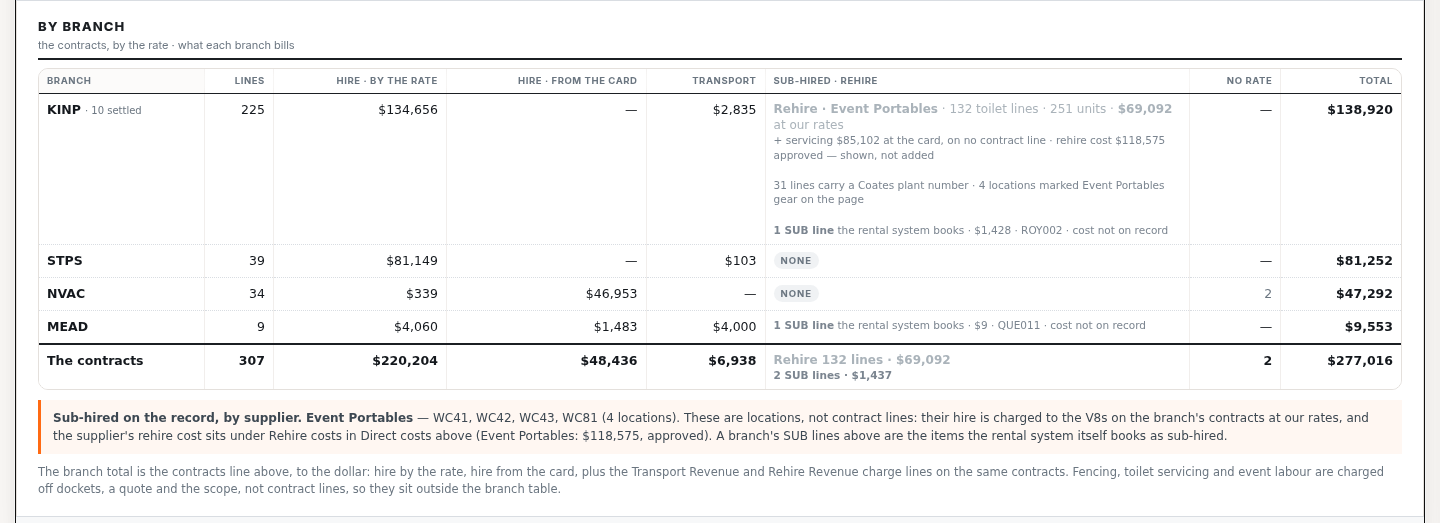
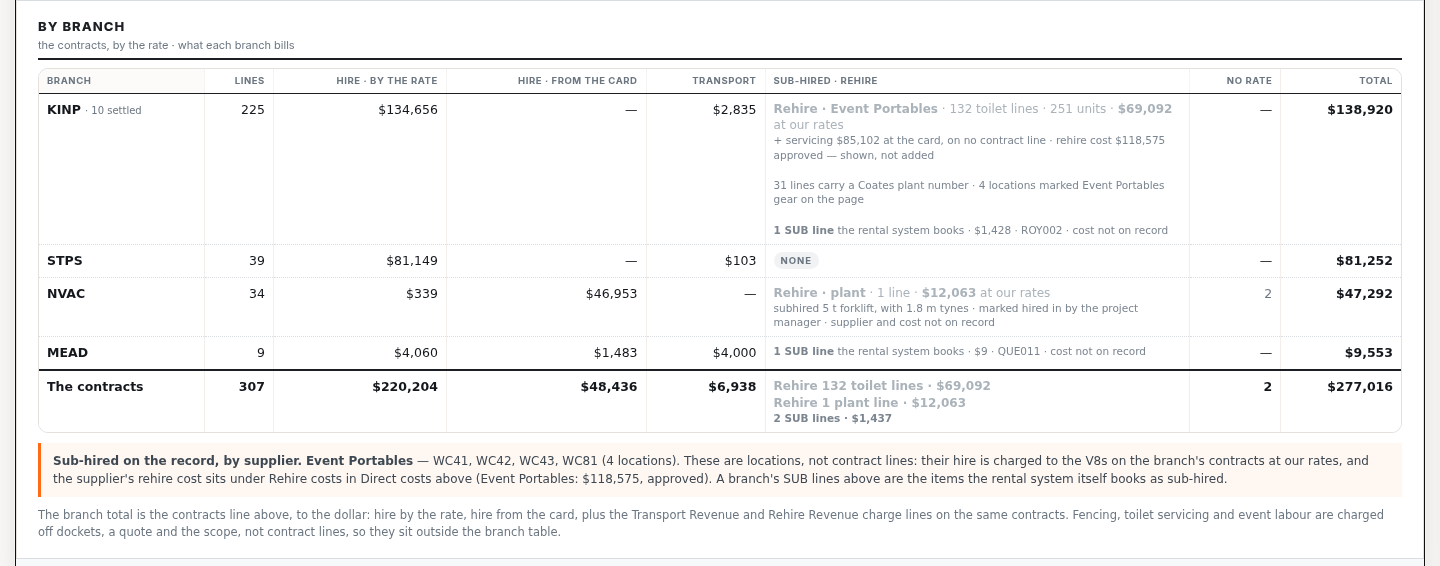
v7.54 ready to upload again: the plant a person marks as hired in counts as rehire on its branch — NVAC's 5 t forklift with tynes ($12,063 at our rates), beside the Event Portables toilets on KINP. Sweeps 21 tabs, 0 errors. Not live
Claude-Session: https://claude.ai/code/session_01BQwk5iUoysfHRmoPUtnkBd

diff --git a/03_GC500_Delivery_Control/v7.54_every_branch_shows_its_rehire_DRAFT/evidence/practice_tests.js b/03_GC500_Delivery_Control/v7.54_every_branch_shows_its_rehire_DRAFT/evidence/practice_tests.js
@@ -7,7 +7,8 @@ const figures = p => p.evaluate(() => { const M = moneySummary(); const B = pl75
  const rows = [...document.querySelectorAll('#pl752 .pl-tbl tbody tr')].map(tr => ({branch: (tr.querySelector('td:first-child b') || tr.querySelector('td:first-child') || {}).textContent, sub: ((tr.querySelector('.pl-sub') || {}).innerText || '').replace(/\s+/g, ' ').trim(), total: ((tr.querySelector('td:last-child') || {}).innerText || '').trim()}));
  const toilets = ONHIRE_ROWS.filter(r => r.family === 'toilet');
  return {contracts: M.charge.contracts, branchTotal: Math.round(B.reduce((s, b) => s + b.total, 0) * 100) / 100, revenue: M.charge.total, costs: M.cost.known,
- branches: B.map(b => ({code: b.code, lines: b.lines, total: b.total, subLines: b.subLines, rehire: b.rehire, suppliers: b.suppliers, rehireLines: b.rehireLines, rehireUnits: b.rehireUnits, rehireCharge: b.rehireCharge, rehireCoatesNos: b.rehireCoatesNos, rehireUnrated: b.rehireUnrated})),
+ branches: B.map(b => ({code: b.code, lines: b.lines, total: b.total, subLines: b.subLines, rehire: b.rehire, suppliers: b.suppliers, rehireLines: b.rehireLines, rehireUnits: b.rehireUnits, rehireCharge: b.rehireCharge, rehireCoatesNos: b.rehireCoatesNos, rehireUnrated: b.rehireUnrated, plantLines: b.plantLines, plantCharge: b.plantCharge, plantWhat: b.plantWhat})),
+ plantCheck: ONHIRE_ROWS.filter(r => r.subhired_machine && !r.subhired).map(r => ({branch: r.branch_code, what: r.what, amount: (contractCharge(r) || {}).amount})),
  RH, check: {toiletLines: toilets.length, toiletUnits: toilets.reduce((s, r) => s + (Number(r.quantity) || 0), 0), toiletCharge: Math.round(toilets.reduce((s, r) => { const c = contractCharge(r); return s + (typeof c.amount === 'number' ? c.amount : 0); }, 0) * 100) / 100, servicing: M.charge.servicing, rehireCost: M.cost.rehire, streamToilets: (M.streams.find(x => x.key === 'toilets') || {}).charge},
  rows, everyRowHasCell: rows.every(r => r.sub.length > 0), head: ((document.querySelector('#pl752 .pl-tbl thead') || {}).innerText || '').replace(/\s+/g, ' ')}; });
 (async () => {
@@ -25,5 +26,6 @@ const figures = p => p.evaluate(() => { const M = moneySummary(); const B = pl75
  await p.screenshot({path: path.join(out, 'shot754_by_branch_phone.png')}); R.phoneErrors = s.errors; await s.browser.close();
  fs.writeFileSync(path.join(out, 'practice_results.json'), JSON.stringify(R, null, 1));
  const d = R.desktop; const K = d.branches.find(b => b.code === 'KINP') || {};
- console.log(JSON.stringify({contracts: d.contracts, branchTotal: d.branchTotal, branchEqualsContracts: Math.abs(d.branchTotal - d.contracts) < 0.01, revenue: d.revenue, costs: d.costs, kinp: K, kinpMatchesToilets: K.rehireLines === d.check.toiletLines && K.rehireUnits === d.check.toiletUnits && Math.abs(K.rehireCharge - d.check.toiletCharge) < 0.01, check: d.check, RH: d.RH, rows: d.rows, everyRowHasCell: d.everyRowHasCell, head: d.head, errors: R.errors, phoneErrors: R.phoneErrors, phoneOverflow: R.phoneOverflow}, null, 1));
+ const N = d.branches.find(b => b.code === 'NVAC') || {};
+ console.log(JSON.stringify({contracts: d.contracts, branchTotal: d.branchTotal, branchEqualsContracts: Math.abs(d.branchTotal - d.contracts) < 0.01, revenue: d.revenue, costs: d.costs, kinp: K, nvacPlant: {plantLines: N.plantLines, plantCharge: N.plantCharge, plantWhat: N.plantWhat}, plantCheck: d.plantCheck, kinpMatchesToilets: K.rehireLines === d.check.toiletLines && K.rehireUnits === d.check.toiletUnits && Math.abs(K.rehireCharge - d.check.toiletCharge) < 0.01, check: d.check, RH: d.RH, rows: d.rows, everyRowHasCell: d.everyRowHasCell, head: d.head, errors: R.errors, phoneErrors: R.phoneErrors, phoneOverflow: R.phoneOverflow}, null, 1));
 })();

diff --git a/03_GC500_Delivery_Control/v7.54_every_branch_shows_its_rehire_DRAFT/patch_v754.py b/03_GC500_Delivery_Control/v7.54_every_branch_shows_its_rehire_DRAFT/patch_v754.py
@@ -27,9 +27,11 @@ if 'function pl752Rows(' not in t or 'function pl752Card(' not in t: sys.exit('n
 
 # 1. the row builder counts the rehire on each branch's contracts (the page's toilets-stream rule: family toilet)
 t = rep(t, "transport: 0, rehire: 0, subLines: 0, suppliers: []};\n const ch = contractCharge(r); b.lines++;",
- "transport: 0, rehire: 0, subLines: 0, suppliers: [], rehireLines: 0, rehireUnits: 0, rehireCharge: 0, rehireCoatesNos: 0, rehireUnrated: 0};\n const ch = contractCharge(r); b.lines++;\n"
- " /* v7.54 - the rehire on the branch's own contracts: the toilet lines are the Event Portables rehire (the toilets stream's rule), charged at our rates */\n"
- " if (r.family === 'toilet' && !r.subhired) { b.rehireLines++; b.rehireUnits += Number(r.quantity) || 0; if (r.asset_no_is_plant_number) b.rehireCoatesNos++; if (typeof ch.amount === 'number') b.rehireCharge = cents(b.rehireCharge + ch.amount); else b.rehireUnrated++; }",
+ "transport: 0, rehire: 0, subLines: 0, suppliers: [], rehireLines: 0, rehireUnits: 0, rehireCharge: 0, rehireCoatesNos: 0, rehireUnrated: 0, plantLines: 0, plantCharge: 0, plantUnrated: 0, plantWhat: []};\n const ch = contractCharge(r); b.lines++;\n"
+ " /* v7.54 - the rehire on the branch's own contracts: the toilet lines are the Event Portables rehire (the toilets stream's rule), charged at our rates;\n"
+ " and the plant the project manager marked as hired in (subhired_machine: the 5 t forklift with tynes, 12 Sep) - Andrew, 1 Oct: 'some forklifts are subhired' */\n"
+ " if (r.family === 'toilet' && !r.subhired) { b.rehireLines++; b.rehireUnits += Number(r.quantity) || 0; if (r.asset_no_is_plant_number) b.rehireCoatesNos++; if (typeof ch.amount === 'number') b.rehireCharge = cents(b.rehireCharge + ch.amount); else b.rehireUnrated++; }\n"
+ " else if (r.subhired_machine && !r.subhired) { b.plantLines++; if (typeof ch.amount === 'number') b.plantCharge = cents(b.plantCharge + ch.amount); else b.plantUnrated++; const w = (r.subhire && r.subhire.reads_as) || (r.what || r.description || 'plant'); if (!b.plantWhat.includes(w)) b.plantWhat.push(w); }",
  'rows', p, True)
 
 # 2. the column head says what the cell holds
@@ -45,8 +47,8 @@ t = rep(t, OLD_CELL, NEW_CELL, 'cell', p, True)
 
 # 4. the total row's cell
 OLD_TOT = "<td class=\"pl-sub\"><b>${esc(fmtNum(B.reduce((s, b) => s + b.subLines, 0)))} lines</b> · ${esc(money0(B.reduce((s, b) => s + b.rehire, 0)))}</td>"
-NEW_TOT = ("<td class=\"pl-sub\">${(() => { const rl = B.reduce((s, b) => s + b.rehireLines, 0), rc = B.reduce((s, b) => s + b.rehireCharge, 0), sl = B.reduce((s, b) => s + b.subLines, 0), sr = B.reduce((s, b) => s + b.rehire, 0);"
- " return `${rl ? `<b>Rehire ${esc(fmtNum(rl))} line${rl === 1 ? '' : 's'}</b> · ${esc(money0(rc))}<br>` : ''}<span class=\"w\">${esc(fmtNum(sl))} SUB line${sl === 1 ? '' : 's'} · ${esc(money0(sr))}</span>`; })()}</td>")
+NEW_TOT = ("<td class=\"pl-sub\">${(() => { const rl = B.reduce((s, b) => s + b.rehireLines, 0), rc = B.reduce((s, b) => s + b.rehireCharge, 0), pl2 = B.reduce((s, b) => s + b.plantLines, 0), pc = B.reduce((s, b) => s + b.plantCharge, 0), sl = B.reduce((s, b) => s + b.subLines, 0), sr = B.reduce((s, b) => s + b.rehire, 0);"
+ " return `${rl ? `<b>Rehire ${esc(fmtNum(rl))} toilet line${rl === 1 ? '' : 's'}</b> · ${esc(money0(rc))}<br>` : ''}${pl2 ? `<b>Rehire ${esc(fmtNum(pl2))} plant line${pl2 === 1 ? '' : 's'}</b> · ${esc(money0(pc))}<br>` : ''}<span class=\"w\">${esc(fmtNum(sl))} SUB line${sl === 1 ? '' : 's'} · ${esc(money0(sr))}</span>`; })()}</td>")
 t = rep(t, OLD_TOT, NEW_TOT, 'total', p, True)
 
 # 5. the helpers, beside pl752Rows; RH is worked out once per card (the servicing at the card and the approved rehire cost are whole-job figures)
@@ -56,6 +58,7 @@ HELPERS = r"""
 function pl754Title(b){
  const parts = [];
  if (b.rehireLines) parts.push(fmtNum(b.rehireLines) + ' toilet line' + (b.rehireLines === 1 ? '' : 's') + ' (' + fmtNum(b.rehireUnits) + ' units) on this branch’s contracts are the Event Portables rehire: charged to the V8s at our rates, Event Portables paid for them. ' + fmtNum(b.rehireCoatesNos) + ' of the lines carry a Coates plant number; the record does not say which unit is whose.');
+ if (b.plantLines) parts.push(fmtNum(b.plantLines) + ' plant line' + (b.plantLines === 1 ? '' : 's') + ' the project manager marked as hired in (' + b.plantWhat.join('; ') + '): charged to the V8s at our rates; the supplier and the rehire cost are not on the record.');
  if (b.subLines) parts.push(fmtNum(b.subLines) + ' SUB line' + (b.subLines === 1 ? '' : 's') + ' from ' + (b.suppliers.join(', ') || 'a supplier not named') + ' · Rehire Revenue ' + money0(b.rehire) + ' · the rehire cost is not on the record');
  return parts.length ? parts.join(' ') : 'no line on this branch’s contracts is booked as sub-hired, and none is rehire';
 }
@@ -67,6 +70,7 @@ function pl754Cell(b, RH){
  out.push(`<span class="w">${RH && RH.servicing ? `+ servicing ${esc(money0(RH.servicing))} at the card, on no contract line · ` : ''}${RH && RH.cost != null ? `rehire cost ${esc(money0(RH.cost))}${RH.approved ? ' approved' : ' quoted, unsigned'} — shown, not added` : 'rehire cost not on the record'}</span>`);
  out.push(`<span class="w">${esc(fmtNum(b.rehireCoatesNos))} line${b.rehireCoatesNos === 1 ? '' : 's'} carry a Coates plant number · ${esc(fmtNum(marked))} location${marked === 1 ? '' : 's'} marked ${esc(RH && RH.co || 'Event Portables')} gear on the page</span>`);
  }
+ if (b.plantLines) out.push(`<b>Rehire · plant</b> · ${esc(fmtNum(b.plantLines))} line${b.plantLines === 1 ? '' : 's'} · <b>${esc(money0(b.plantCharge))}</b> at our rates${b.plantUnrated ? ` <span class="pl-todo">+ ${esc(fmtNum(b.plantUnrated))} unrated</span>` : ''}<br><span class="w">${esc(b.plantWhat.join('; '))} · marked hired in by the project manager · supplier and cost not on record</span>`);
  if (b.subLines) out.push(`<span class="w"><b>${esc(fmtNum(b.subLines))} SUB line${b.subLines === 1 ? '' : 's'}</b> the rental system books · ${esc(money0(b.rehire))} · ${esc(b.suppliers.join(', ') || 'supplier not named')} · cost not on record</span>`);
  return out.length ? out.join('<br>') : '<span class="pl-none">none</span>';
 }

diff --git a/03_GC500_Delivery_Control/STATUS.md b/03_GC500_Delivery_Control/STATUS.md
@@ -27,7 +27,7 @@ The live page's own proof: `toolchain/fetch_live.sh` then compare with the relea
 
 | version | what | who | since |
 |---|---|---|---|
-| v7.54 | **REVISING — not ready** (Andrew, 1 Oct: "some forklifts are subhired" — the sub-hired plant lines go into the cell too; READY again once retested). With v7.52, in that order (build: patch_v752 then patch_v754 on the live v7.51). Every branch shows its rehire (Andrew, 1 Oct: "KINP you have subhired at 1400 — what about all the Event Portables portaloos?"): the Sub-hired · rehire cell on every branch row — KINP the Event Portables rehire (132 toilet lines, 251 units, $69,092 at our rates; servicing $85,102 at the card; rehire cost $118,575 approved, shown not added; 31 Coates plant numbers; 4 marked locations) and its 1 SUB line ($1,428 ROY002); MEAD its 1 SUB line ($9 QUE011); STPS and NVAC none. Totals unchanged. Sweeps 21 tabs, 0 errors, desktop and phone. `v7.54_every_branch_shows_its_rehire_DRAFT/README.md`. Author: Andrew Fisher. | Claude | 1 Oct 2026 |
+| **v7.54** | **READY TO UPLOAD — with v7.52, in that order** (retested 1 Oct with the sub-hired plant: NVAC's 5 t forklift with tynes, marked hired in by Andrew on 12 Sep, now shows as Rehire · plant · $12,063 at our rates) (build: patch_v752 then patch_v754 on the live v7.51). Every branch shows its rehire (Andrew, 1 Oct: "KINP you have subhired at 1400 — what about all the Event Portables portaloos?"): the Sub-hired · rehire cell on every branch row — KINP the Event Portables rehire (132 toilet lines, 251 units, $69,092 at our rates; servicing $85,102 at the card; rehire cost $118,575 approved, shown not added; 31 Coates plant numbers; 4 marked locations) and its 1 SUB line ($1,428 ROY002); MEAD its 1 SUB line ($9 QUE011); STPS and NVAC none. Totals unchanged. Sweeps 21 tabs, 0 errors, desktop and phone. `v7.54_every_branch_shows_its_rehire_DRAFT/README.md`. Author: Andrew Fisher. | Claude | 1 Oct 2026 |
 | design | **Awaiting Andrew's yes — no page change.** Today · Current Position: one landing page in place of Today and Where we are (Andrew's brief, 1 Oct). Visual design on the live figures, design notes, what-moves-where, one-source-of-truth rules, phone. `design_01Oct2026_today_current_position/`. Not to be built until approved. | Claude | 1 Oct 2026 |
 | v7.53 | **HOLD — DO NOT UPLOAD. Andrew (1 Oct): "dont change anything until i see a preview … they look worse." A live preview is being built for him; the folder stays a draft until he says yes.** (built on the live v7.51, with or without v7.52). The Showcase's 3D backdrop redrawn in Three.js r152 (Andrew, 1 Oct: "10/10. Perfection here"): the circuit at its measured road width with kerbs, concrete blocks and Coates/event hoardings, debris fencing, six gantries (Coates and event words only), floods, grandstands and crowd, Surfers Paradise from OSM; the Coates #26 coupe with livery, lights, wheels and a rival to pass; racing line, braking, launch; follow/onboard/helicopter/overhead/trackside cameras under a director; day, sunset (new backdrop), night; speed lines and smoke; race-control strip. Old engine stays as the fallback; sound unchanged; no record touched. Sweeps 21 tabs, 0 errors, desktop and phone. `v7.53_the_circuit_in_three_js_DRAFT/README.md`. Author: Andrew Fisher. | Claude | 1 Oct 2026 |
 | **v7.52** | **READY TO UPLOAD** (built on the live v7.51). Every branch row shows its sub-hire (Andrew, 1 Oct). The Forecast P&L at the head of Costs: revenue by line (tagged on the contracts / from the card / not priced) and by branch (adds to the contracts line to the cent), direct costs against the eight categories, difference so far, what is not in it; the old card folds under it. Andrew, 1 Oct. `v7.52_the_pl_as_management_read_it_DRAFT/`. Author: Andrew Fisher. | Claude | 1 Oct 2026 |

diff --git a/03_GC500_Delivery_Control/v7.54_every_branch_shows_its_rehire_DRAFT/README.md b/03_GC500_Delivery_Control/v7.54_every_branch_shows_its_rehire_DRAFT/README.md
@@ -23,9 +23,14 @@ The column is now **Sub-hired · rehire**, and every branch row carries it:
   the card (on no contract line); rehire cost $118,575 approved — shown, not added; 31 lines carry a Coates plant
   number · 4 locations marked Event Portables gear on the page (WC41, WC42, WC43, WC81); then its 1 SUB line the
   rental system books · $1,428 · ROY002 · cost not on record.
-- **MEAD** — 1 SUB line the rental system books · $9 · QUE011 · cost not on record.
-- **STPS**, **NVAC** — none.
-- **The contracts** — Rehire 132 lines · $69,092 · 2 SUB lines · $1,437.
+- **NVAC** — Rehire · plant · 1 line · **$12,063** at our rates: the 5 t forklift with 1.8 m tynes Andrew marked as
+  hired in on 12 Sep ("a second forklift was delivered — a subhired forklift with tynes"); supplier and cost not on
+  the record. Andrew, 1 Oct: "some forklifts are subhired" — the plant a person marks as hired in (`subhired_machine`)
+  counts as rehire on the branch's contracts, the same as the toilets.
+- **MEAD** — 1 SUB line the rental system books · $9 · QUE011 · cost not on record. Its two forklifts (2.5 t, 5 t) carry
+  Coates asset numbers and no mark, so they stay Coates fleet until someone marks them.
+- **STPS** — none.
+- **The contracts** — Rehire 132 toilet lines · $69,092 · Rehire 1 plant line · $12,063 · 2 SUB lines · $1,437.
 
 The branch totals do not move ($277,015.74, the contracts line to the cent): the toilet lines were always in KINP's
 hire by the rate. The cost is shown beside the revenue and never added to it (Andrew's words: Rehire Revenue, Rehire
@@ -34,13 +39,14 @@ marked locations are stated as facts, not turned into a split.
 
 Build: `toolchain/build.sh v7.54 v7.52_the_pl_as_management_read_it_DRAFT/patch_v752.py
 v7.54_every_branch_shows_its_rehire_DRAFT/patch_v754.py` — v7.54 needs v7.52 applied first (it edits pl752Rows and the
-branch table). Build 8,458,756 bytes; `check_page.py` PASS.
+branch table). Build 8,460,174 bytes; `check_page.py` PASS.
 
 ## Checks (evidence/)
 
 - `practice_tests.js` → `practice_results.json`: branch total 277,015.74 = contracts 277,015.74; KINP rehire 132 lines,
   251 units, $69,092.26 = the toilet lines on the record (132 / 251 / $69,092.26); servicing 85,101.75 and rehire cost
-  118,575 as moneySummary holds them; toilets stream charge 154,194.01 = 69,092.26 + 85,101.75; every row carries the
-  cell; 0 page errors desktop and phone; no sideways scroll on the phone.
+  118,575 as moneySummary holds them; toilets stream charge 154,194.01 = 69,092.26 + 85,101.75; NVAC plant rehire 1
+  line $12,062.70 = the one `subhired_machine` line on the record; every row carries the cell; 0 page errors desktop
+  and phone; no sideways scroll on the phone.
 - `shot754_by_branch.png`, `shot754_by_branch_phone.png`.
 - Sweeps on the final build: `sweep_desktop.txt`, `sweep_phone.txt` — 21 tabs, 0 errors, 0 console.
